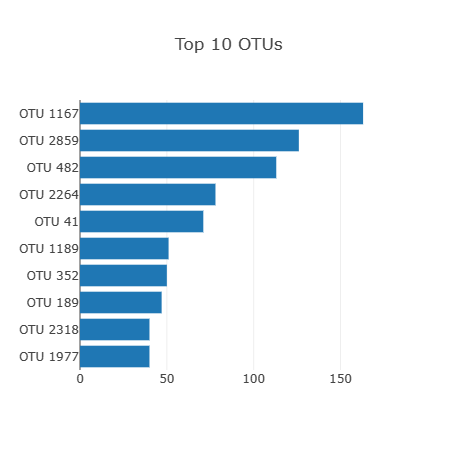
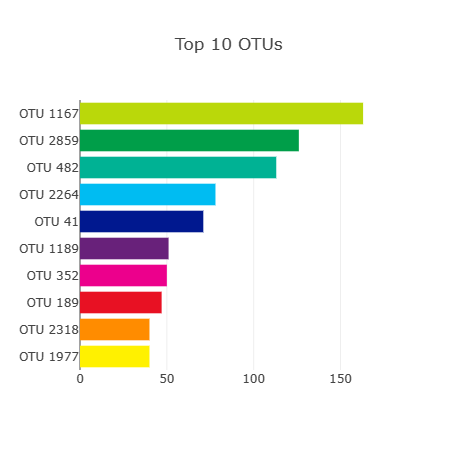
belly-button-challenge

Changed region(s): [[0.1532, 0.2178, 0.7965, 0.84]]

diff --git a/Starter_Code/StarterCode/static/js/app.js b/Starter_Code/StarterCode/static/js/app.js
@@ -106,12 +106,19 @@ function buildBarChart(sample) {
         let labels = otu_labels.slice(0,10).reverse();
         
         // Set up the trace for the bar chart
+        var colors = ['#fff100', '#ff8c00', '#e81123', '#ec008c', '#68217a', '#00188f', '#00bcf2', '#00b294', '#009e49', '#bad80a']
         let trace = {
             x: xticks,
             y: yticks,
             text: labels,
             type: "bar",
-            orientation: "h"
+            orientation: "h",
+            mode: 'markers',
+            marker: {
+                color: colors
+            }
+        
+            
         };
 
         // Setup the layout
